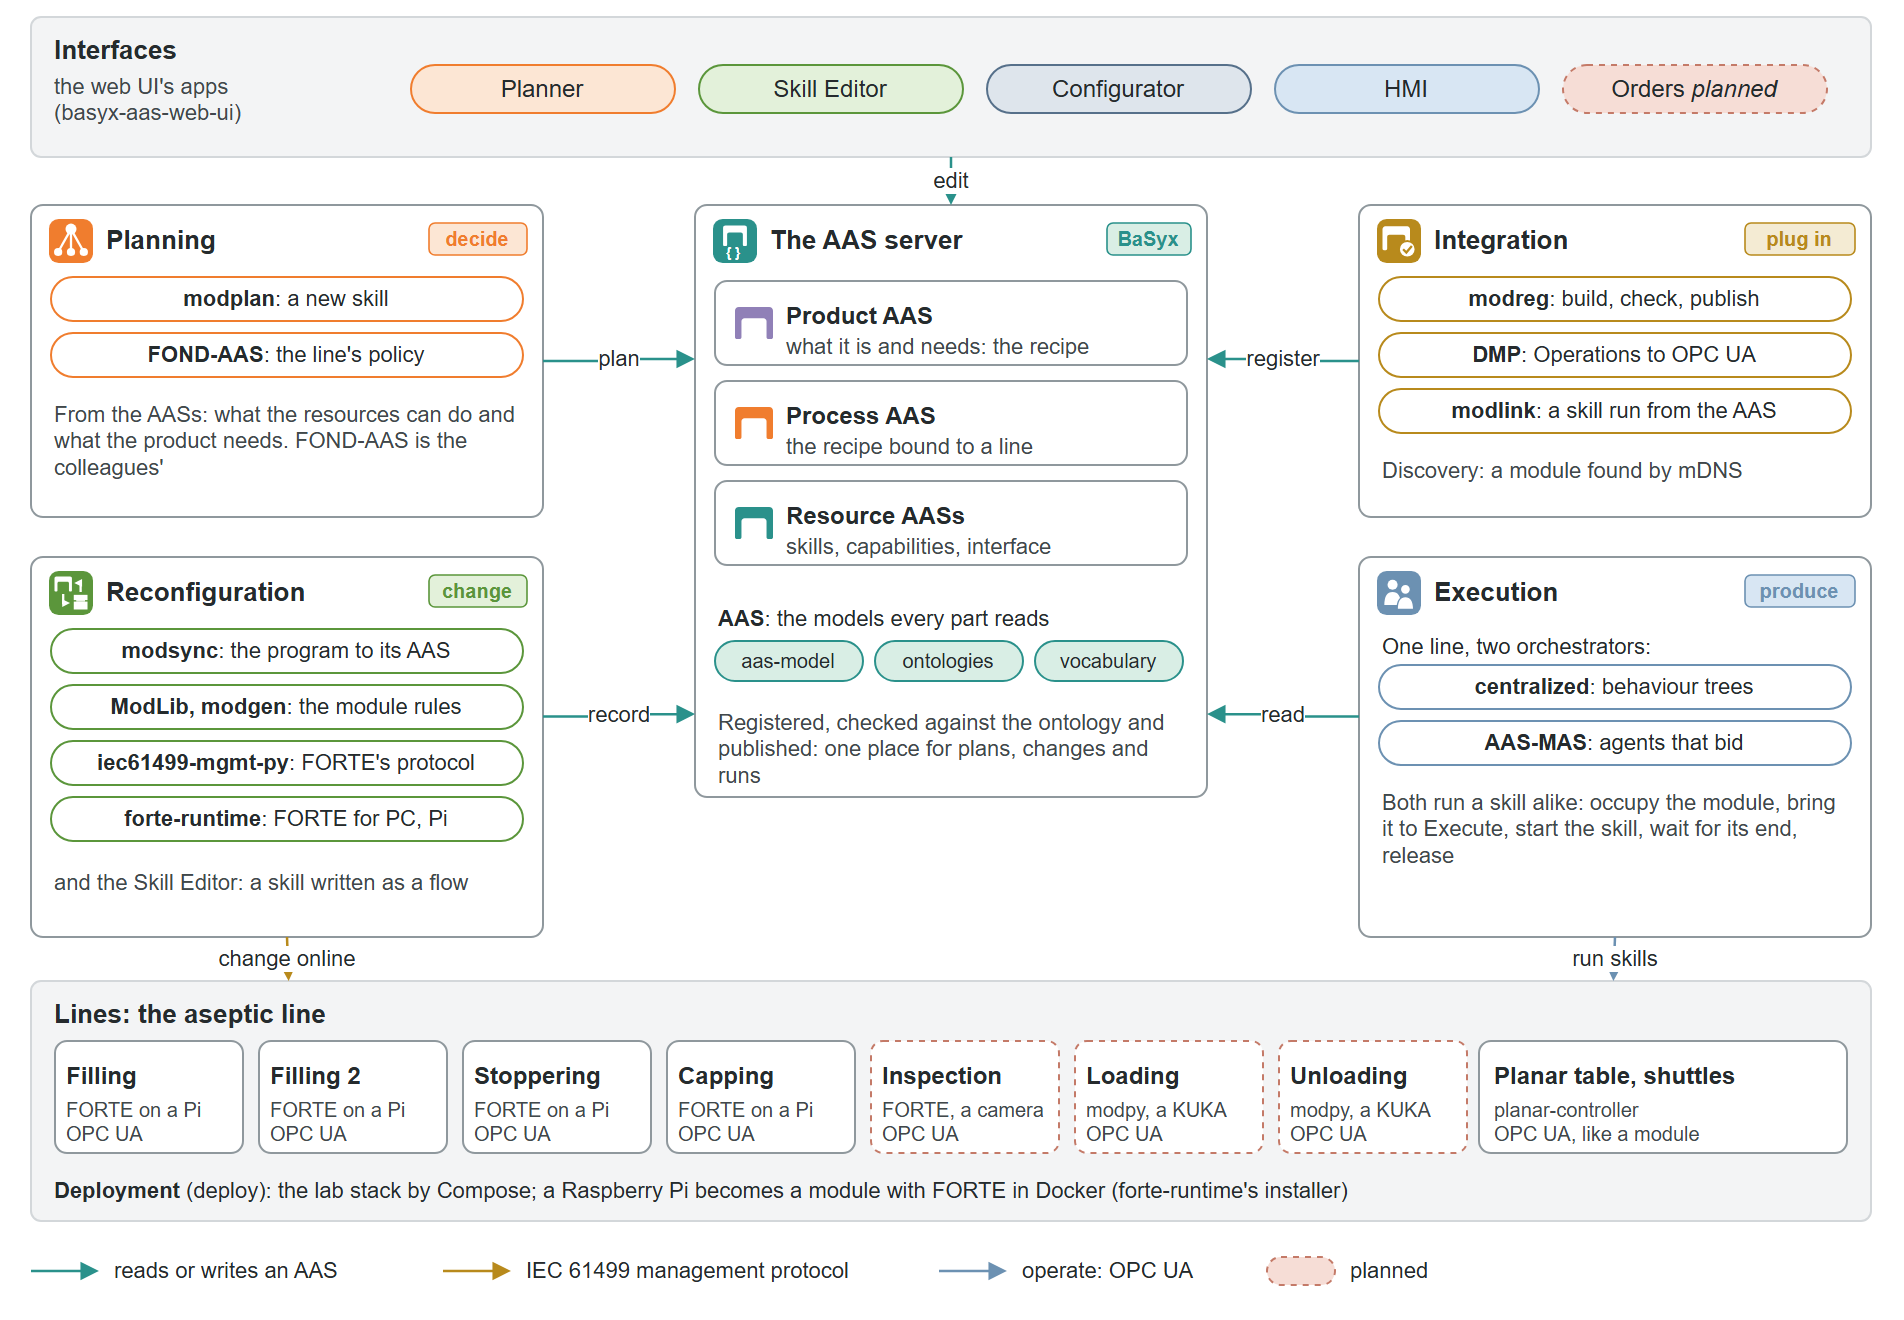
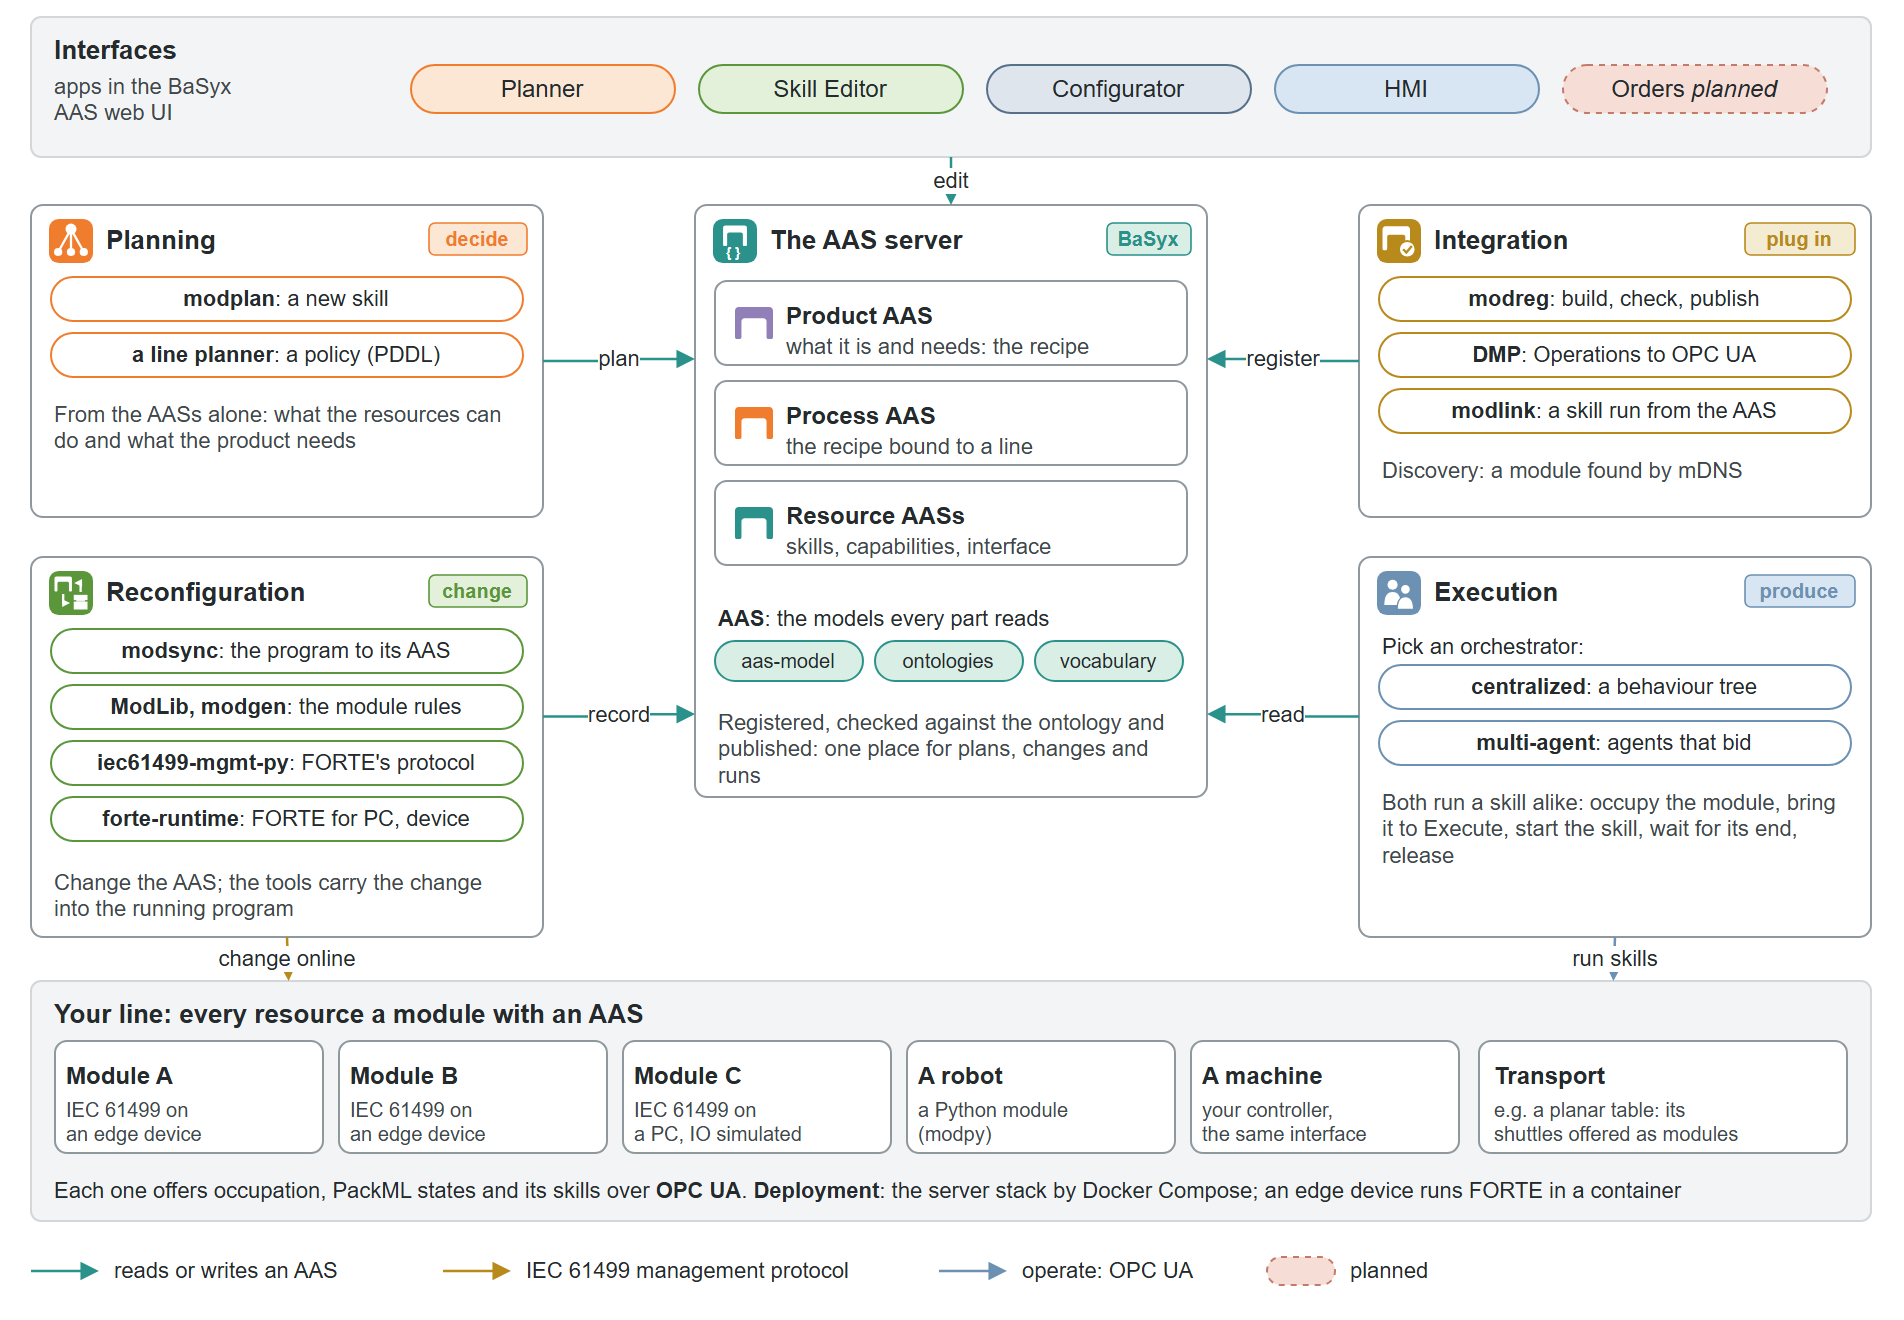
Home page and framework figure: the framework as you use it, not one lab's line

diff --git a/docs/index.md b/docs/index.md
@@ -3,16 +3,17 @@
 **AAS-based Planning, Integration, Reconfiguration and Execution.** Plug and produce with the Asset
 Administration Shell.
 
-AASPIRE is the framework of the AP2030 project at the AAU Smart Production Lab. A production line is
-described, planned, plugged together, changed and run from the Asset Administration Shells (AASs) of
-its products, processes and resources. The line's modules run IEC 61499 programs on Eclipse 4diac
-FORTE, each on a Raspberry Pi. Each module comes with an AAS that says what it offers and how it is
-called; the tools read that AAS to operate the module, to check it and to change it while it runs.
+AASPIRE is a framework for building production lines from modules that describe themselves. Every
+resource, product and process gets an Asset Administration Shell (AAS), and the AAS becomes the one
+place where you say what a module offers, what a product needs and how the two meet. The tools read
+those AASs to plug a module in, to plan what it should do, to change its program while it runs and to
+run the line. A module is an IEC 61499 program on Eclipse 4diac FORTE, on an edge device or a PC, or any
+other controller that offers the same interface over OPC UA.
 
 <figure markdown="span">
-  [![The framework: the web UI's apps on top; the AAS server with the product, process and resource AASs in
-  the middle; Planning, Integration, Reconfiguration and Execution around it; the line's modules and the
-  planar table below](figures/framework.png)](figures/framework.png)
+  [![The framework: the apps on top; the AAS server with the product, process and resource AASs in the
+  middle; Planning, Integration, Reconfiguration and Execution around it; your line's modules
+  below](figures/framework.png)](figures/framework.png)
   <figcaption>The AAS server holds the models every part reads and writes. Planning decides what to do,
   Integration plugs a resource in, Reconfiguration changes a running module, Execution runs the line. Click
   a figure to see it at full size.</figcaption>
@@ -20,49 +21,44 @@ called; the tools read that AAS to operate the module, to check it and to change
 
 ## The pillars
 
-| Pillar | What it does | Parts |
+| Pillar | What you do with it | Parts |
 | --- | --- | --- |
 | <span class="pillar aas">AAS</span> | Describe what a resource, a product and a process are | [aas-model](aas/aas-model.md), [the ontologies](aas/ontologies.md) |
-| <span class="pillar planning">Planning</span> | Decide what to do from capabilities | [modplan](planning/modplan.md); FOND-AAS (the colleagues') |
-| <span class="pillar integration">Integration</span> | Plug in: register, discover, connect, map data | [registration service](integration/registration.md), [DMP](integration/dmp.md), [modlink](integration/modlink.md) |
+| <span class="pillar planning">Planning</span> | Decide what to do from capabilities | [modplan](planning/modplan.md); a line planner of your choice |
+| <span class="pillar integration">Integration</span> | Plug a resource in: register, discover, connect, map its data | [registration service](integration/registration.md), [DMP](integration/dmp.md), [modlink](integration/modlink.md) |
 | <span class="pillar reconfiguration">Reconfiguration</span> | Change a running resource from its AAS | [modsync](reconfiguration/modsync.md), [skill library](reconfiguration/skill-lib.md), [management library](reconfiguration/mgmt.md), [FORTE runtime](reconfiguration/runtime.md) |
-| <span class="pillar execution">Execution</span> | Produce: run a product's steps on the line | [line agents](execution/agents.md), [planar controller](execution/planar-controller.md); the BT controller (the colleagues') |
+| <span class="pillar execution">Execution</span> | Produce: run a product's steps on the line | [line agents](execution/agents.md), [planar controller](execution/planar-controller.md); or a behaviour tree |
 
-Three more hold everything together: <span class="pillar interfaces">Interfaces</span> the [web UI's
-apps](interfaces/web-ui.md), <span class="pillar deployment">Deployment</span> the [server stack and the
-module on a Pi](deployment/deploy.md), and <span class="pillar lines">Lines</span>, a line built with
-all of it: the [aseptic line](lines/aseptic-line.md).
+Three more hold everything together: <span class="pillar interfaces">Interfaces</span>, the [apps in
+the web UI](interfaces/web-ui.md); <span class="pillar deployment">Deployment</span>, the [server stack
+and the modules on their devices](deployment/deploy.md); and <span class="pillar lines">Lines</span>,
+how [a line of your own](lines/aseptic-line.md) is laid out, with an aseptic filling line as the worked
+example.
 
-## One line, two orchestrators
+## The idea in one paragraph
 
-The same line is run in two ways, and only the orchestration differs: **centralized**, where a planner
-(FOND-AAS) makes a policy for the order from the AASs and a behaviour tree runs it, and **multi-agent**,
+A module is delivered as two things: an IEC 61499 program that follows a small set of
+[module rules](reconfiguration/index.md), and an AAS that says what the program offers. From those two
+alone, without the files the module was generated from, the tools can verify the module, operate it and
+change it online. A new skill can be planned from the module's own capability model and created on the
+running module the same way. Everything above the module (the orchestrator, the apps, the agents) talks
+to it only through its AAS and its OPC UA interface, so any of them can be swapped.
+
+## One line, any orchestrator
+
+Only the orchestration differs between ways of running a line. You can run it **centrally**, where a
+planner makes a policy for the order from the AASs and a behaviour tree runs it, or **multi-agent**,
 where a product agent per unit asks for one step at a time and the resources' agents bid. Everything
-below the orchestration is shared: the models, the modules, the way a skill is run, the integration
-and the reconfiguration. [Execution](execution/index.md) says more.
-
-## What the work shows
-
-> A module that is delivered with an IEC 61499 program and an AAS can be verified, operated and
-> changed online from those two alone, without the files it was generated from; new skills are
-> planned from its skill and capability models and created online the same way.
-
-That is the claim of the CIRP CMS paper (November 2026). The tools behind it are on this site:
-[modsync](reconfiguration/modsync.md) verifies and changes, [modlink](integration/modlink.md) operates,
-[modplan](planning/modplan.md) plans, and the [module rules](reconfiguration/index.md) are the contract
-they share.
+below the orchestration is shared: the models, the modules, the way a skill is run, the integration and
+the reconfiguration. [Execution](execution/index.md) says more.
 
 ## Where to start
 
-- **New to it:** this page, then a pillar's page; the [glossary](overview/glossary.md) has the words.
+- **New to it:** read this page, then a pillar's page; the [glossary](overview/glossary.md) has the words.
 - **See a module run:** [run a module on a PC](how-to/simulation.md), with its IO simulated.
-- **Put one on hardware:** [a module on a Raspberry Pi](how-to/raspberry-pi.md).
+- **Put one on hardware:** [deploy a module to an edge device](how-to/raspberry-pi.md).
+- **Plug it in:** [register a module and publish a line](how-to/register.md).
 - **Change one while it runs:** [change a skill online](how-to/change-a-skill.md).
-- **Find the code:** [repositories](overview/repositories.md) maps every part to its folder today and
-  to its repository after the split.
-
-!!! note "The state of this site"
-    This is the first version of AASPIRE's documentation, written in November 2026 from the working
-    notes in the repository's `docs/` folder. The parts still share one repository,
-    [iec61499-mgmt-py](https://github.com/AAU-AASPIRE/aaspire); the organization
-    `AAU-AASPIRE` and its repositories are planned. Each page says what is built and what is not.
+- **Build your own line:** [a line's repository](lines/aseptic-line.md), then
+  [building skills and equipment](reference/building-skills.md).
+- **Find the code:** [repositories](overview/repositories.md) maps every part to its repository.
